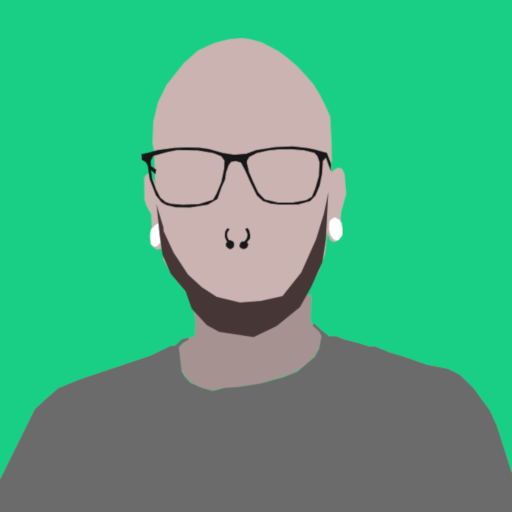
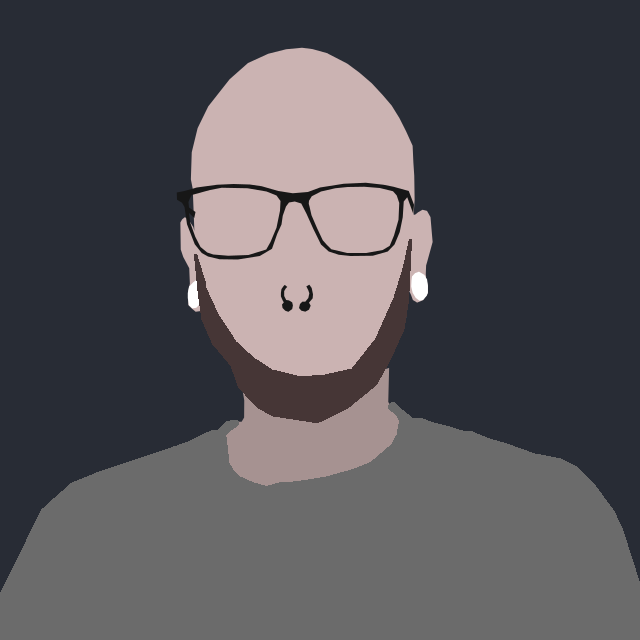
Fix deployment Task, change default image
Also mark git.superevilmegaco.com as obsolete and make github.com the
default again.

diff --git a/src/index.html b/src/index.html
@@ -37,7 +37,7 @@
                                 Just do it!
                         </header>
                         <div class="swapper">
-                                <img src="/me-pump-circle-512.jpg" alt="Marco Kellershoff a.k.a. Walialu in shorts, upper-body is naked." />
+                                <img src="/nerdy.png" alt="Minimalistic cartoonified picture of Marco Kellershoff a.k.a. Walialu with glasses on." />
                                 <img src="/pool.jpg" class="hidden" alt="Picture of Marco Kellershoff a.k.a. Walialu floating in a pool." />
                         </div>
                         <div class="get-in-touch">
@@ -91,10 +91,10 @@
                         If you're <a href="https://walialu.com/now" class="poisonousgreen">curious</a>, you can befriend me at
                         <span class="nobr"><a href="https://jambo.social/@walialu" class="elephantblue obsolete">Mastodon</a></span>
                         <span class="nobr"><a href="https://twitter.com/walialu" class="blue">Twitter</a>
-                        <a href="#extendedinfo-twitter" data-tippy-html="#extendedinfo-twitter"><sup class="blue"></sup></a></span> and/or
-                        <span class="nobr"><a href="https://github.com/walialu" class="grey obsolete">Github</a></span>
-                        <span class="nobr"><a href="https://git.superevilmegaco.com/walialu" class="gitlab-purple">GitLab</a>
-                        <a href="#extendedinfo-github" data-tippy-html="#extendedinfo-git"><sup class="gitlab-purple"></sup></a></span>, or
+                        <a href="#extendedinfo-twitter" data-tippy-html="#extendedinfo-twitter"><sup class="blue"></sup></a></span>and/or
+                        <span class="nobr"><a href="https://github.com/walialu" class="grey">Github</a></span>
+                        <a href="#extendedinfo-github" data-tippy-html="#extendedinfo-git"><sup class="grey"></sup></a>
+                        <span class="nobr"><a href="https://git.superevilmegaco.com/walialu" class="gitlab-purple obsolete">GitLab</a></span>, or
                         peek at my <span class="nobr"><span class="turquoiseblue obsolete">blog</span> <a href="https://walialu.com/" class="turquoiseblue">treasure filled dumpster</a>
                         <a href="#extendedinfo-treasure-filled-dumpster" data-tippy-html="#extendedinfo-treasure-filled-dumpster"><sup class="turquoiseblue"></sup></a></span>.
                         </p>
